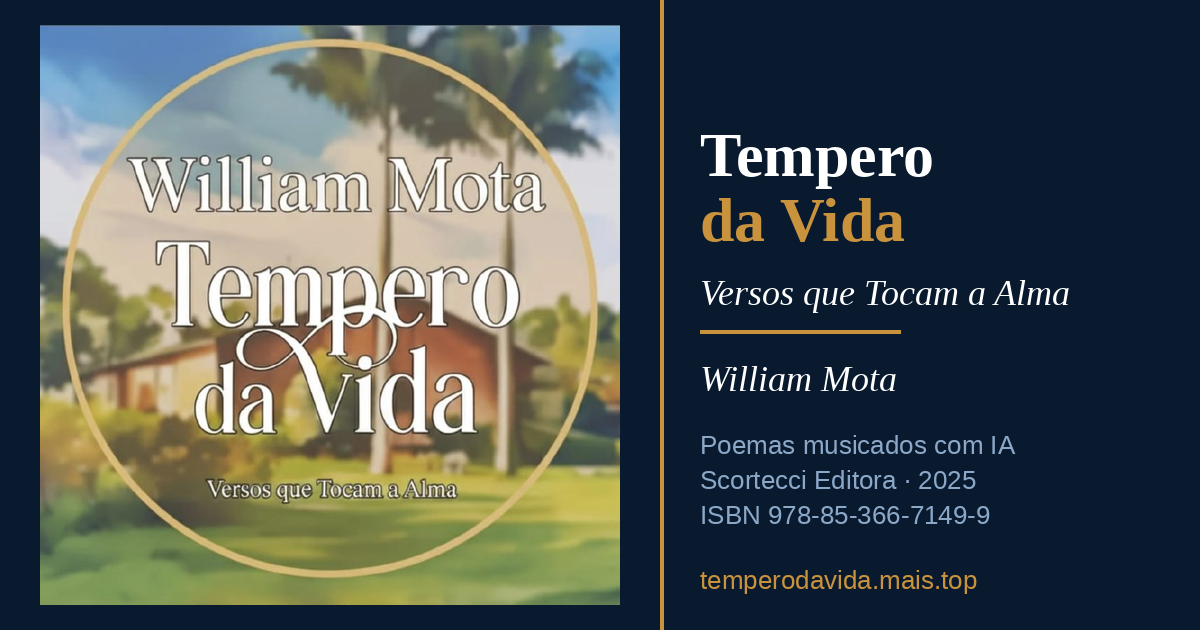
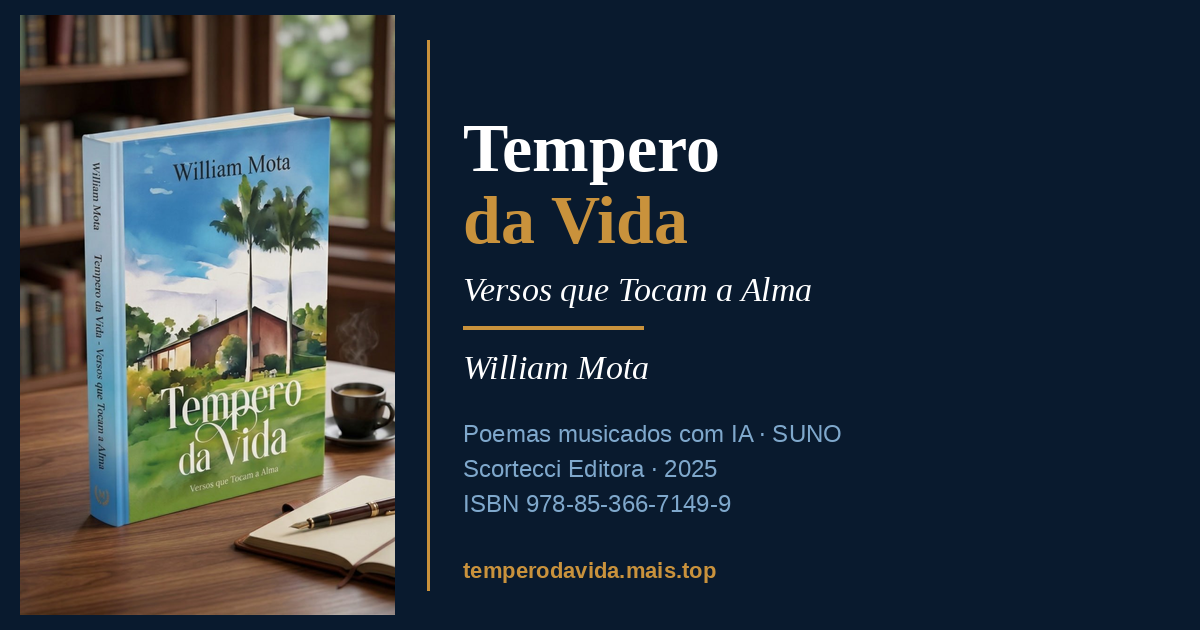
Usa mockup do livro na página /livro e na og-image

diff --git a/livro.html b/livro.html
@@ -52,8 +52,8 @@
     }
     .livro-cover img {
       width: 100%;
-      border-radius: 50%;
-      box-shadow: 0 24px 64px rgba(0,0,0,0.55), 0 0 0 6px rgba(201,146,60,0.3);
+      border-radius: 12px;
+      box-shadow: 0 32px 80px rgba(0,0,0,0.6), 0 0 0 1px rgba(201,146,60,0.15);
     }
     .livro-cover__badge {
       position: absolute;
@@ -234,8 +234,8 @@
       <!-- Capa -->
       <div class="livro-cover">
         <img
-          src="capa-livro.jpg"
-          alt="Tempero da Vida — Versos que Tocam a Alma, capa do livro de William Mota"
+          src="mockup-livro.jpg"
+          alt="Tempero da Vida — Versos que Tocam a Alma, livro de William Mota"
           loading="eager"
         />
         <div class="livro-cover__badge">1ª Edição · 2025</div>
